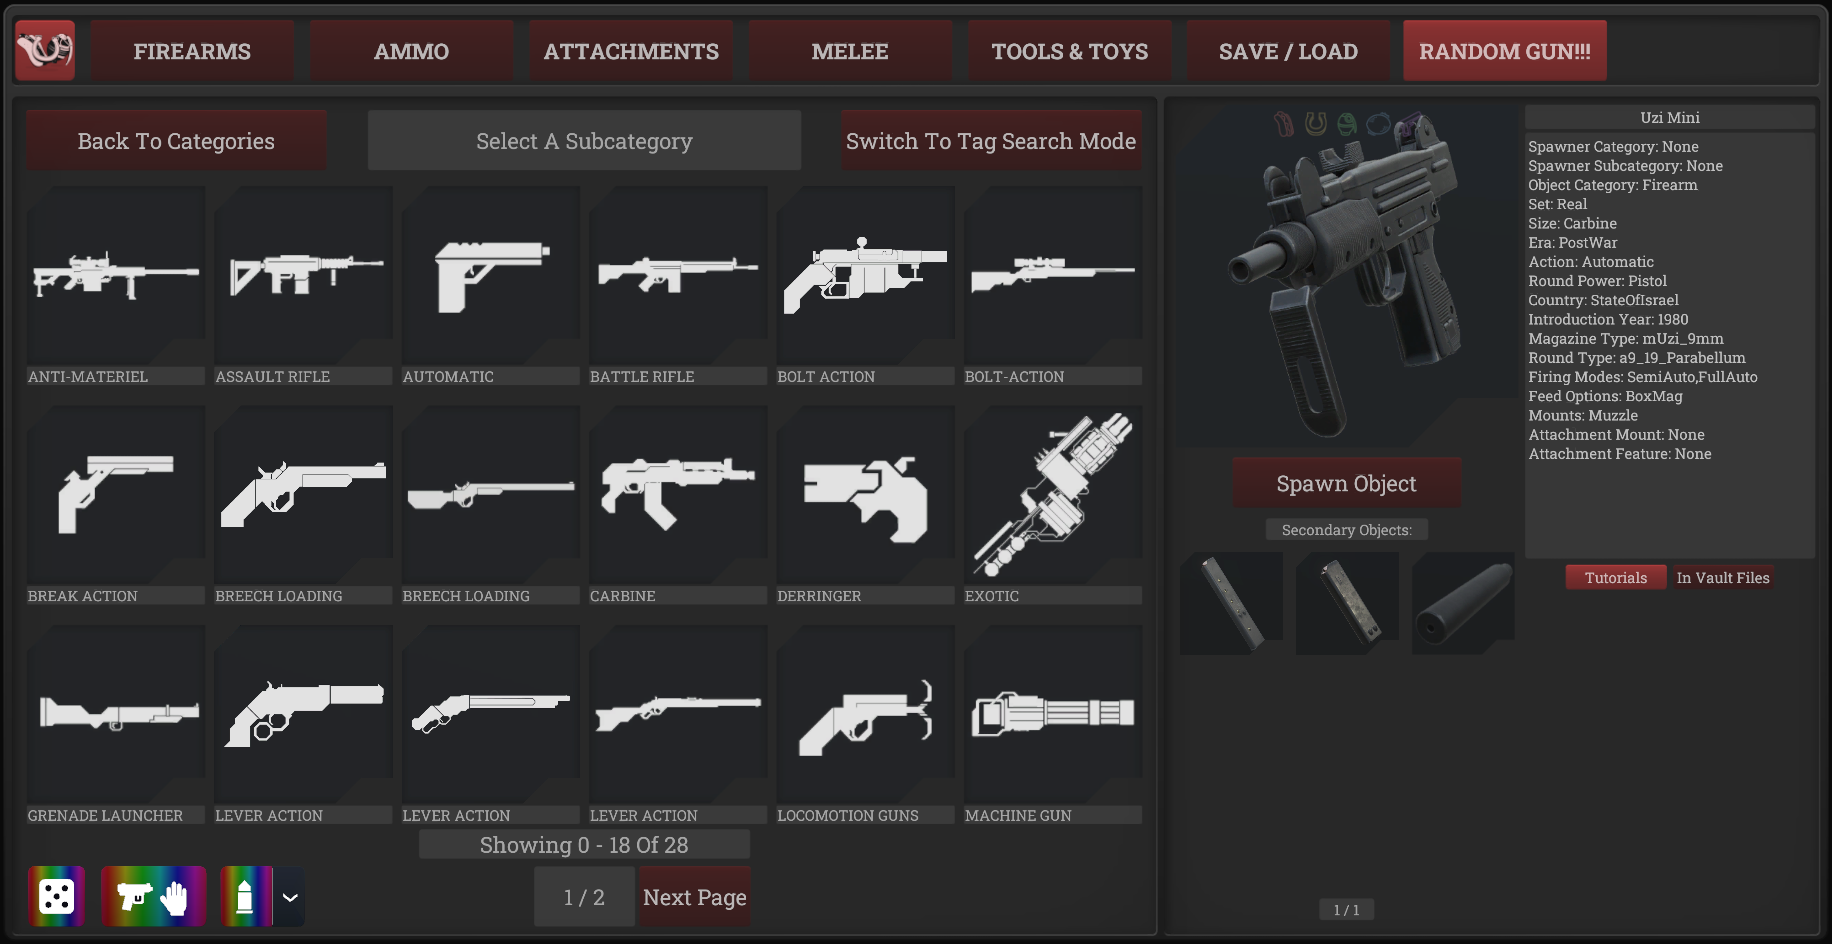
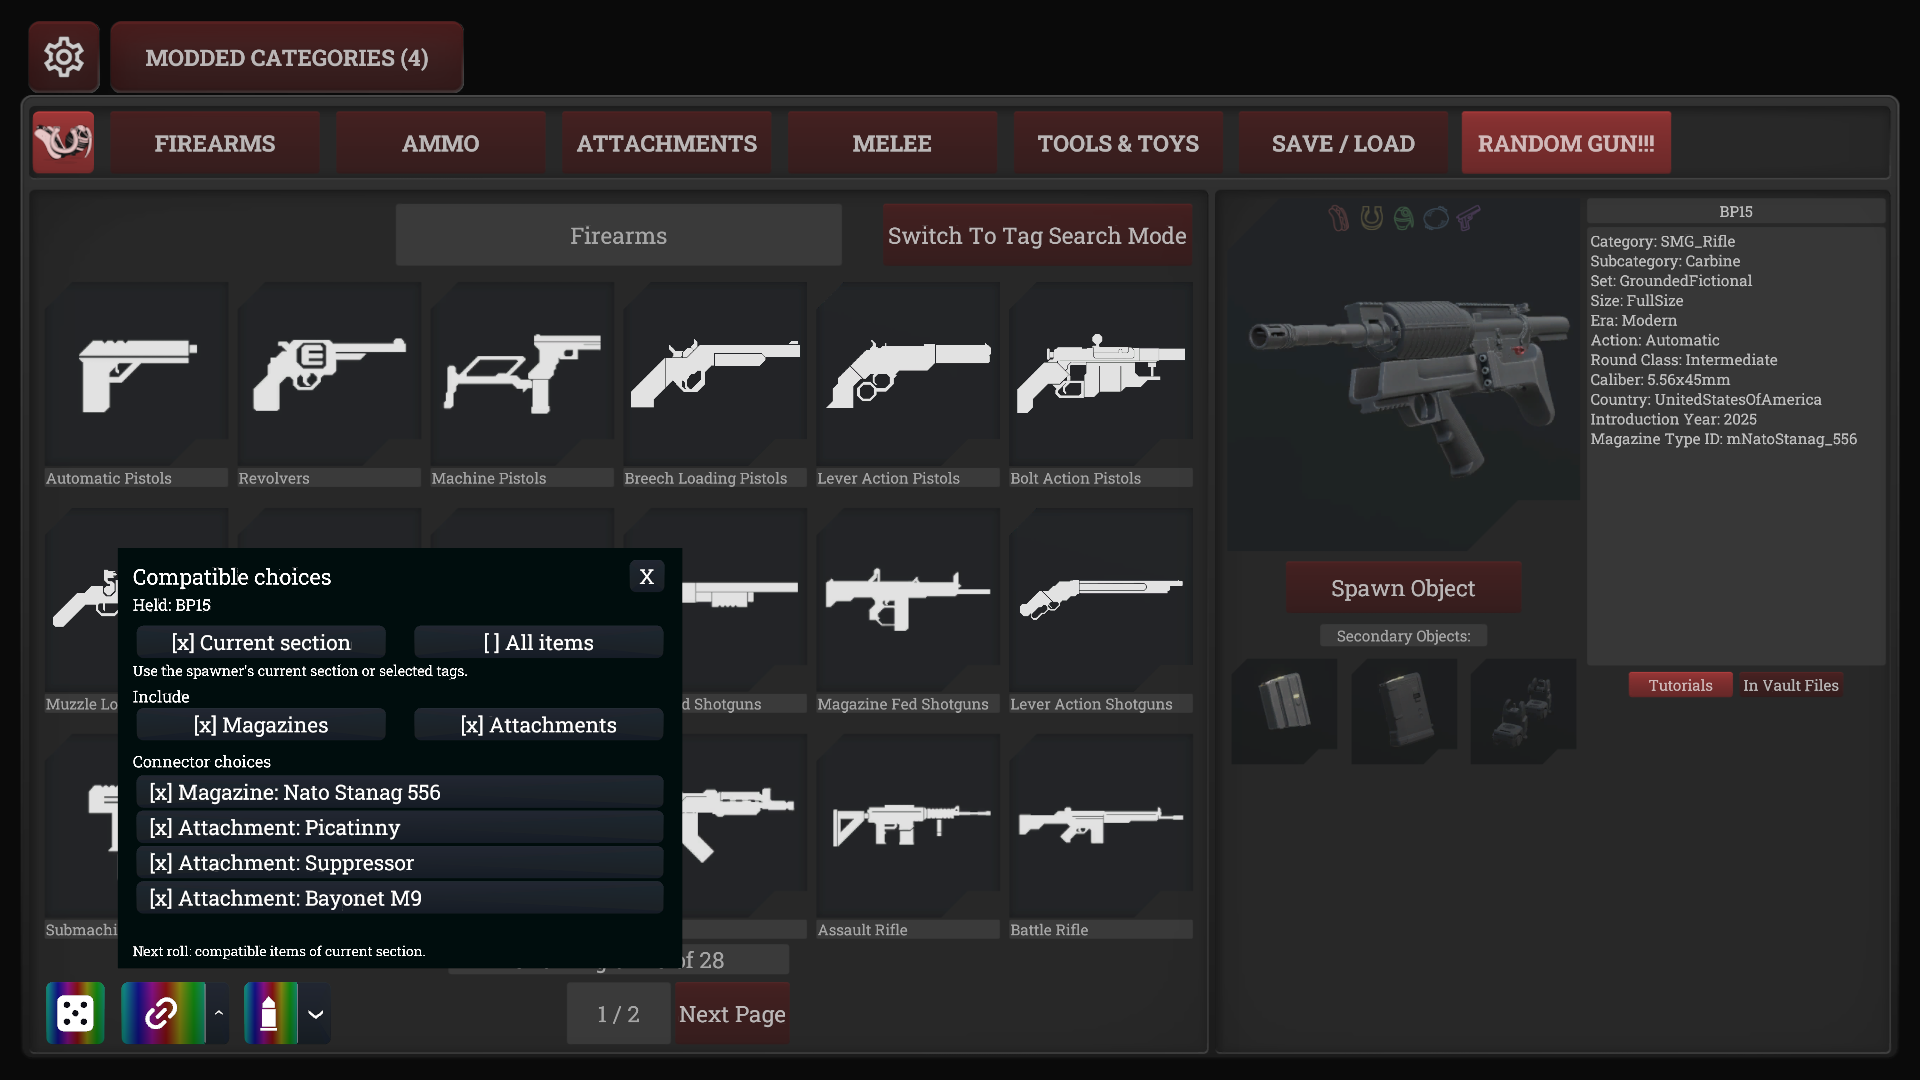
Refresh cover with compatible choices open in 1.1.0

diff --git a/tests/runtime/ReadmePreview.cs b/tests/runtime/ReadmePreview.cs
@@ -6,6 +6,7 @@ using System.Linq;
 using FistVR;
 using HarmonyLib;
 using UnityEngine;
+using UnityEngine.UI;
 using Object = UnityEngine.Object;
 
 public static class ReadmePreview
@@ -18,12 +19,13 @@ public static class ReadmePreview
         var priorHeld = hands.Select(h => h.CurrentInteractable).ToArray();
         var priorEnabled = hands.Select(h => h.enabled).ToArray();
         var priorHead = GM.CurrentPlayerBody.Head.position;
+        var compatiblePanel = AccessTools.Field(controller.GetType(), "compatiblePanel").GetValue(controller);
         GameObject gun = null;
         try
         {
             foreach (var hand in hands) { hand.enabled = false; heldField.SetValue(hand, null); }
             GM.CurrentPlayerBody.Head.position = spawner.transform.position + Vector3.back;
-            var entry = IM.GetSpawnerID("SMGUziMini");
+            var entry = IM.GetSpawnerID(IM.OD["BP15"].SpawnedFromId);
             var request = entry.MainObject.GetGameObjectAsync();
             float deadline = Time.realtimeSinceStartup + 90;
             while (request.keepWaiting && Time.realtimeSinceStartup < deadline) yield return null;
@@ -43,6 +45,8 @@ public static class ReadmePreview
             spawner.BTN_SimpleMode_SwitchToSimpleMode();
             Call(bridge, "SelectEntry", entry);
             yield return new WaitForSecondsRealtime(4); // Let real status tooltips expire.
+            Call(AccessTools.Field(compatiblePanel.GetType(), "toggle").GetValue(compatiblePanel), "Activate", hands[1]);
+            yield return null; // Let the owner hide the tooltip before rendering the popup.
             yield return new WaitForEndOfFrame();
             var root = (RectTransform)AccessTools.Field(controller.GetType(), "uiRoot").GetValue(controller);
             Capture(root.parent as RectTransform, Path.Combine(directory, "readme-cover.png"));
@@ -51,6 +55,7 @@ public static class ReadmePreview
         finally
         {
             Call(controller, "CancelRoll");
+            Call(compatiblePanel, "Hide");
             for (int i = 0; i < hands.Length; ++i) { heldField.SetValue(hands[i], priorHeld[i]); hands[i].enabled = priorEnabled[i]; }
             GM.CurrentPlayerBody.Head.position = priorHead;
             if (gun != null) Object.Destroy(gun);
@@ -68,14 +73,17 @@ public static class ReadmePreview
         var previous = RenderTexture.active;
         try
         {
-            // Capture the complete panel, including its top tabs and border. Cover callouts
-            // are presentation edits; keep an untouched game capture as their source.
-            var center = canvas.TransformPoint(canvas.rect.center);
+            // Include visible controls added beyond the native panel by optional loaders.
+            var bounds = new Bounds(canvas.rect.center, new Vector3(canvas.rect.width, canvas.rect.height, 0));
+            foreach (var graphic in canvas.GetComponentsInChildren<Graphic>())
+                if (graphic.enabled && graphic.gameObject.activeInHierarchy)
+                    bounds.Encapsulate(RectTransformUtility.CalculateRelativeRectTransformBounds(canvas, graphic.rectTransform));
+            var center = canvas.TransformPoint(new Vector3(canvas.rect.center.x, bounds.center.y, 0));
             camera.transform.position = center - canvas.forward * 2;
             camera.transform.rotation = canvas.rotation;
             camera.orthographic = true;
-            camera.orthographicSize = Mathf.Max(canvas.rect.height * canvas.lossyScale.y,
-                canvas.rect.width * canvas.lossyScale.x * height / width) * .525f;
+            camera.orthographicSize = Mathf.Max(bounds.size.y * canvas.lossyScale.y,
+                canvas.rect.width * canvas.lossyScale.x * height / width) * .51f;
             camera.nearClipPlane = .01f; camera.farClipPlane = 4;
             camera.clearFlags = CameraClearFlags.SolidColor;
             camera.backgroundColor = new Color(.04f, .04f, .04f);

diff --git a/DEVELOPMENT.md b/DEVELOPMENT.md
@@ -25,6 +25,8 @@ Optional runtime tests launch H3VR without a headset, install a temporary test p
 
 Other suites: `-ColdIndexChecks`, `-SearchChecks`, `-AmmoFillChecks`, `-AmmoModChecks`, and `-IntegrationOnly`. Runtime tests and tools are excluded from the distributable mod package. Keep personal notes and machine settings in ignored `.local/`.
 
+Use `-ReadmePreview -UseInstalledBuild` to capture the installed version with compatible options open, without rebuilding or repackaging the mod.
+
 `-PatchedLoaderChecks` adds OtherLoaderPatched category and spawn checks to the normal suite; install OtherLoaderPatched and MLOK Rails in the test profile. Also run the normal suite with original OtherLoader and with neither loader enabled.
 
 `-ModularMagazineChecks` checks magazine classification and indexing with ModulAK and the standalone ModulAR2 Magazines pack installed. `-CompatiblePanelChecks` uses those fixtures to check global scope, connector exclusions, preview/spawn behavior and the toolbox tablet, and captures the panel. Both can run with original OtherLoader or OtherLoaderPatched.

diff --git a/README.md b/README.md
@@ -1,6 +1,6 @@
 # Gundomizer
 
-![Complete Item Spawner V2 with Gundomizer's rainbow buttons](https://raw.githubusercontent.com/quaternion7/gundomizer/main/docs/images/item-spawner.png)
+![Item Spawner V2 with Gundomizer's rainbow buttons and compatible item options open](https://raw.githubusercontent.com/quaternion7/gundomizer/main/docs/images/item-spawner.png)
 
 Randomize items directly in **Item Spawner V2**, including the **toolbox tablet**, in classic and tag-search modes.
 
